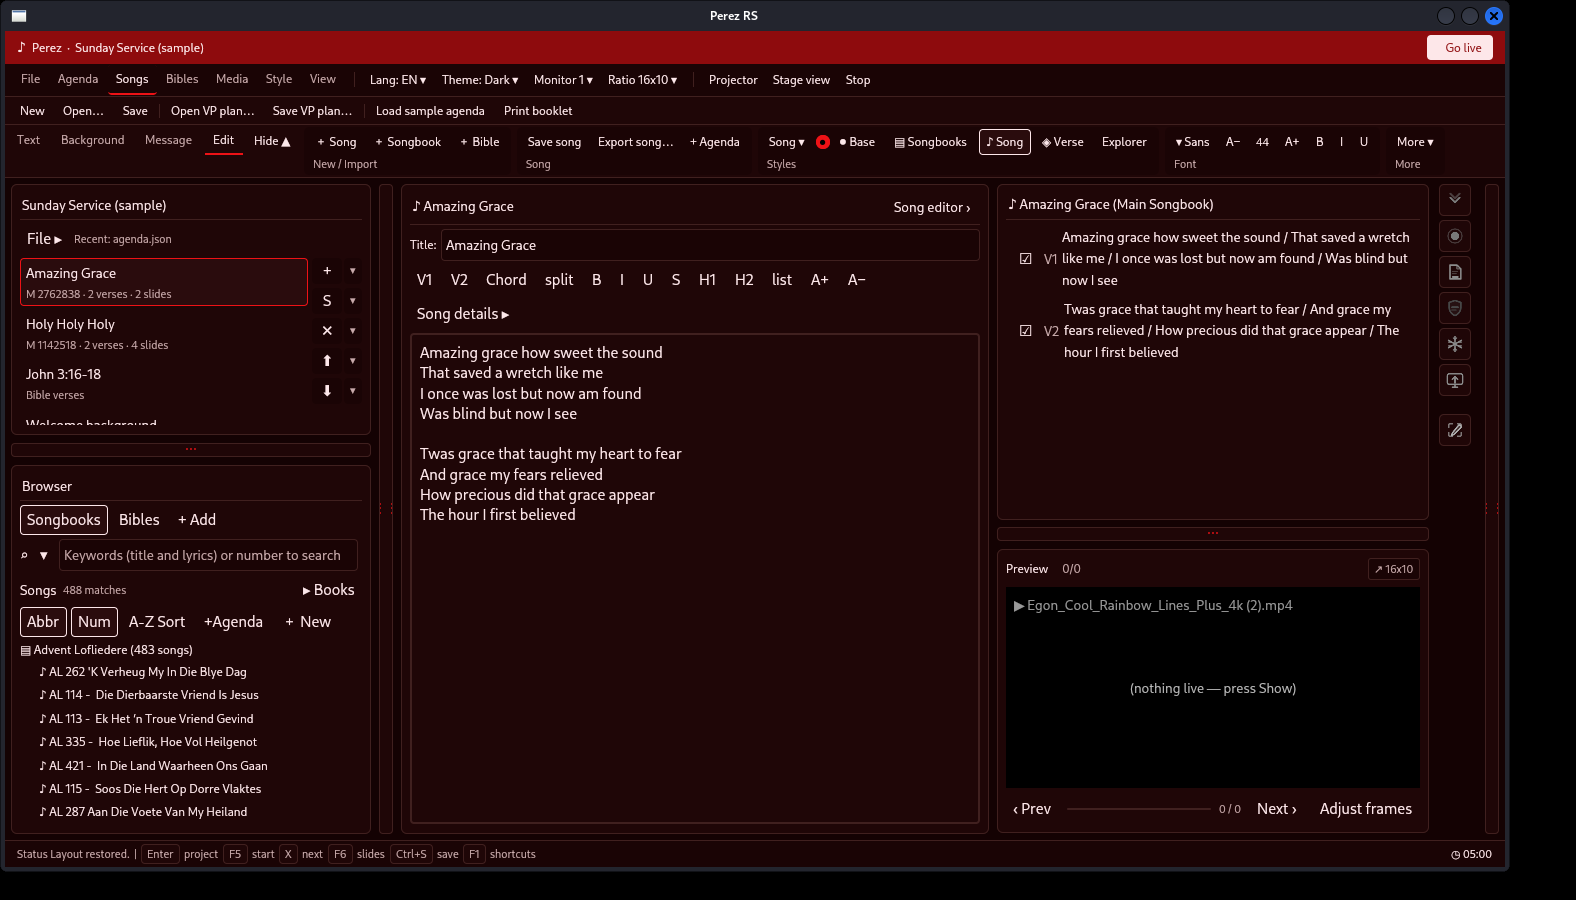
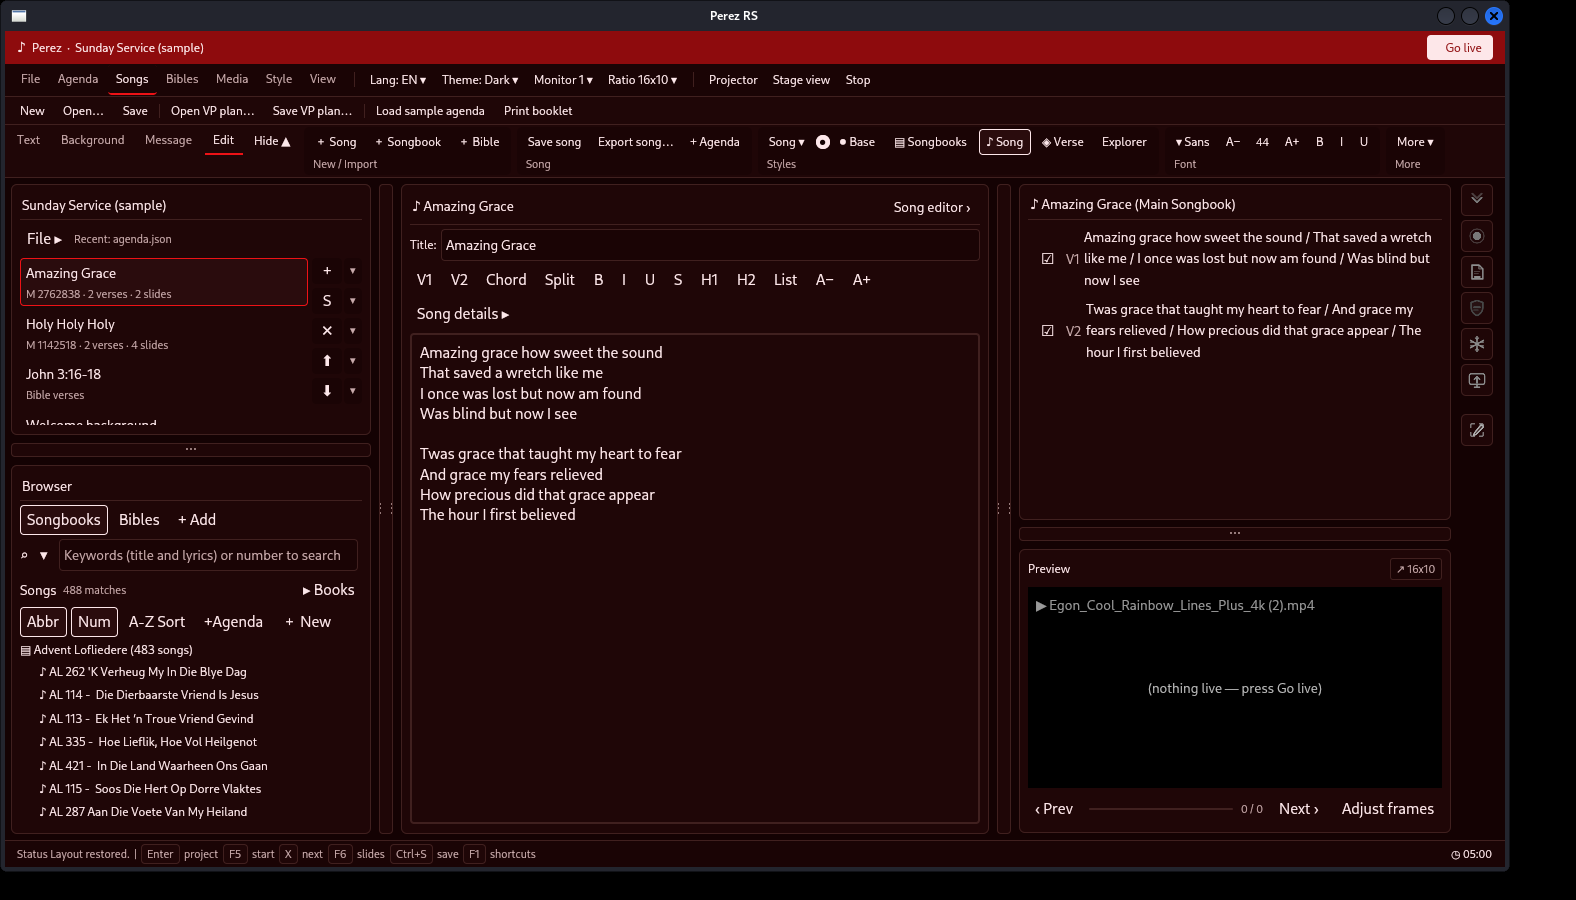
fix(gpui): round-2 panel — dividers, preview fit, non-dark contrast
- right divider sits between centre and right and drags the correct way
- preview output width excludes the command strip; Adjust frames fits
- gray/blue panels darkened for >6:1 body text; light tonal steps tightened
- option lists anchor under their trigger; splitter grips neutral ink
- 1366 slide rows whole; songbook tree folds behind Books
- Go live copy, single 0/0, ink style dot, Split/List casing, A-/A+ order
- captures: light/gray/blue/dark 1576, dark 1366; evidence crops refreshed

tests: app 223 + vp-core 255 + misc 5 = 483 passed, zero warnings

diff --git a/gpui-app/app/src/main.rs b/gpui-app/app/src/main.rs
@@ -194,12 +194,6 @@ pub(crate) struct UI {
     /// Recessed strip: menu bar, status bar, seated rows.
     sunken: Rgba,
     accent: Rgba,
-    /// Text color guaranteed readable on `accent` backgrounds (black or
-    /// white, whichever has the higher WCAG contrast). Selection/active
-    /// highlights paint `accent` behind inherited text; without this the
-    /// near-white `fg` of the dark/gray/blue themes sits on light accents
-    /// (sky/amber/yellow) and is nearly invisible.
-    accent_ink: Rgba,
     danger: Rgba,
     /// The **selection** colour: selected agenda item, selected slide row,
     /// active buttons — always signal red, on every skin.
@@ -308,23 +302,30 @@ impl UI {
         // recessed strip. These are desaturated relatives of each skin's own
         // surface, never brand red (the 10-percent rule).
         let (border, muted, hover, sunken) = match t.id {
-            "light" => (rgb(0xE6D3D5), rgb(0x6B4F52), rgb(0xF9EFF0), rgb(0xFBF2F3)),
+            "light" => (rgb(0xD9BFC2), rgb(0x6B4F52), rgb(0xF2DEE0), rgb(0xF6E8E9)),
             "dark" => (rgb(0x40201F), rgb(0xC9ABAC), rgb(0x2A0C0D), rgb(0x1A0405)),
-            "gray" => (rgb(0x8B8B94), rgb(0xE7E7EA), rgb(0x5E5E67), rgb(0x494950)),
-            "blue" => (rgb(0x4A70C8), rgb(0xD7E4FF), rgb(0x2B4FA8), rgb(0x1B3378)),
+            "gray" => (rgb(0xA0A0A9), rgb(0xF0F0F2), rgb(0x6A6A73), rgb(0x46464E)),
+            "blue" => (rgb(0x6E93E0), rgb(0xDCE8FF), rgb(0x3B5FBF), rgb(0x17357A)),
             _ => (rgb(0x2E2E33), rgb(0xB4B4B8), rgb(0x151518), rgb(0x0A0A0C)),
+        };
+        // Gray/blue carry a light `muted` because vp-core uses it as a panel
+        // fill; those skins need a DARK panel for 4.5:1 body text, so the
+        // panel is resolved here instead of trusting the theme literal.
+        let panel = match t.id {
+            "gray" => rgb(0x5A5A63),
+            "blue" => rgb(0x2B4FA8),
+            _ => hex(t.muted),
         };
         UI {
             bg: hex(t.bg),
             fg: hex(t.fg),
-            panel: hex(t.muted),
+            panel,
             border,
             muted,
             hover,
             sunken,
             selection_surface: rgb(0x8E0B0D),
             accent,
-            accent_ink: ink_on(accent),
             danger: rgb(0xDC2626),
             // Skin-independent: the selected agenda item is signal red and
             // the live/projecting row is lime, on every skin
@@ -942,7 +943,10 @@ impl Root {
     /// Feed one divider move: width follows the cursor, clamped 220..720.
     fn col_move(&mut self, cx: &mut Context<Self>, cur_x: f32) {
         if let Some((col, start_w, press_x)) = self.col_drag {
-            let w = clamp_col_width(start_w + cur_x - press_x);
+            // The right divider moves left when dragged left: its width is
+            // the distance from the window's right edge, so the delta flips.
+            let delta = if col == 0 { cur_x - press_x } else { press_x - cur_x };
+            let w = clamp_col_width(start_w + delta);
             if col == 0 {
                 self.left_w = w;
             } else {
@@ -983,11 +987,11 @@ impl Root {
             .border_1()
             .border_color(ui.border);
         let strip = if grabbed {
-            strip.bg(ui.accent)
+            strip.bg(ui.hover).border_color(ui.fg)
         } else {
-            strip.bg(ui.panel).hover(|s| s.bg(ui.accent))
+            strip.bg(ui.panel).hover(|s| s.bg(ui.hover))
         };
-        let grip_color = if grabbed { ui.accent_ink } else { ui.accent };
+        let grip_color = if grabbed { ui.fg } else { ui.muted };
         strip
             .id(if col == 0 { "vp-col-split-l" } else { "vp-col-split-r" })
             .child(div().text_size(px(12.)).text_color(grip_color).child("⋮⋮".to_string()))
@@ -1082,11 +1086,11 @@ impl Root {
             .border_1()
             .border_color(ui.border);
         let strip = if grabbed {
-            strip.bg(ui.accent)
+            strip.bg(ui.hover).border_color(ui.fg)
         } else {
-            strip.bg(ui.panel).hover(|s| s.bg(ui.accent))
+            strip.bg(ui.panel).hover(|s| s.bg(ui.hover))
         };
-        let grip_color = if grabbed { ui.accent_ink } else { ui.accent };
+        let grip_color = if grabbed { ui.fg } else { ui.muted };
         strip
             .id(if which == 0 { "vp-row-split-agenda" } else { "vp-row-split-preview" })
             .child(div().text_size(px(12.)).text_color(grip_color).child("⋯".to_string()))
@@ -7495,10 +7499,16 @@ impl Root {
             );
             items.push(row);
         }
+        let menu_left = match kind {
+            MenuKind::Lang => 350.0,
+            MenuKind::Theme => 432.0,
+            MenuKind::Monitor => 516.0,
+            MenuKind::Ratio => 600.0,
+        };
         div()
             .absolute()
             .top(px(58.))
-            .right(px(18.))
+            .left(px(menu_left))
             .w(px(240.))
             .flex()
             .flex_col()
@@ -8540,9 +8550,9 @@ impl Root {
             .justify_center()
             .text_size(px(11.))
             .border_1()
-            .border_color(if dot_lit { ui.accent } else { ui.border })
-            .bg(if dot_lit { ui.accent } else { rgba(0x00000000) })
-            .text_color(if dot_lit { ink_on(ui.accent) } else { ui.muted })
+            .border_color(if dot_lit { ui.fg } else { ui.border })
+            .bg(if dot_lit { ui.fg } else { rgba(0x00000000) })
+            .text_color(if dot_lit { ui.bg } else { ui.muted })
             .child("●".to_string());
         style_kids.push(row(vec![
             btn_stop(
@@ -9262,6 +9272,9 @@ impl Root {
             )
             // Right: slides above, preview below (split by a draggable
             // divider), command strip full-height at the panel's edge.
+            // The divider belongs BETWEEN centre and right, not after the
+            // right column at the window edge.
+            .child(self.divider(ui, cx, 1))
             .child(
                 div()
                     .flex()
@@ -9288,8 +9301,7 @@ impl Root {
                             .when(self.show_shortcuts, |d| d.child(self.shortcut_panel(ui))),
                     )
                     .child(tool_strip)
-            )
-            .child(self.divider(ui, cx, 1));
+            );
         if let Some(layer) = self.dropdown_overlay(ui, cx) {
             root = root.child(layer);
         }
@@ -11882,7 +11894,6 @@ impl Root {
         win_h: f32,
     ) -> Div {
         let slides = self.projector_slides();
-        let n = slides.len();
         let cur = self.projector_slide_index();
         // Room mirror: the same background stack the projector renders, so
         // an assigned image shows here too (WI-023) — not just on a second
@@ -11958,7 +11969,7 @@ impl Root {
                         div()
                             .text_size(px(13.5))
                             .text_color(hex("#BBBBBB"))
-                            .child("(nothing live — press Show)".to_string()),
+                            .child("(nothing live — press Go live)".to_string()),
                     ),
             )
         } else {
@@ -11969,7 +11980,9 @@ impl Root {
             // cannot disagree with the projector by construction (WI-028)
             // AND fits. "current" follows the window glass; a set preset
             // letterboxes exactly like the projector does.
-            let panel_w = (self.right_w.min((win_w * 0.32).max(220.0)) - 12.0).max(120.0);
+            // Right column minus its own padding, the 44px command strip and
+            // the gap: the old -12 let the output box overflow under the rail.
+            let panel_w = (self.right_w.min((win_w * 0.32).max(220.0)) - 64.0).max(120.0);
             let aspect = AspectRatio::from_label(&self.aspect_ratio)
                 .map(|r| r.aspect() as f32)
                 .unwrap_or((win_w / win_h.max(1.0)).clamp(0.5, 4.0));
@@ -11992,11 +12005,6 @@ impl Root {
                         ))
                         .child(card_caption("Output")),
                 )
-        };
-        let count = if n == 0 {
-            "0/0".to_string()
-        } else {
-            format!("{}/{}", cur + 1, n)
         };
         // Header per preview-area.png: the panel is the picture plus its
         // caption — no style-level badge, no frame tabs. The caption (song /
@@ -12038,7 +12046,7 @@ impl Root {
                             .min_w_0()
                             .overflow_hidden()
                             .text_color(ui.muted)
-                            .child(format!("{head_short}  {count}")),
+                            .child(head_short),
                     )
                     .children(self.state_chips(ui))
                     .when(self.aspect_ratio != "current", |d| {
@@ -12335,7 +12343,7 @@ impl Root {
             let doc = this.lyrics_doc.clone();
             doc.update(cx, |d, cx| d.insert_at_cursor("[]", cx));
         }));
-        kids.push(btn(ui, cx, "split", false, |this, _, _, cx| {
+        kids.push(btn(ui, cx, "Split", false, |this, _, _, cx| {
             let doc = this.lyrics_doc.clone();
             doc.update(cx, |d, cx| d.insert_at_cursor("\n\n", cx));
         }));
@@ -12350,14 +12358,14 @@ impl Root {
                 doc.update(cx, |d, cx| d.wrap_selection(before, after, cx));
             }));
         }
-        for (label, prefix) in [("H1", "# "), ("H2", "## "), ("list", "- ")] {
+        for (label, prefix) in [("H1", "# "), ("H2", "## "), ("List", "- ")] {
             kids.push(btn(ui, cx, label, false, move |this, _, _, cx| {
                 let doc = this.lyrics_doc.clone();
                 doc.update(cx, |d, cx| d.prefix_current_line(prefix, cx));
             }));
         }
-        kids.push(btn(ui, cx, "A+", false, |this, _, _, cx| {
-            this.lyrics_text_size = (this.lyrics_text_size + 1.0).min(24.0);
+        kids.push(btn(ui, cx, "A−", false, |this, _, _, cx| {
+            this.lyrics_text_size = (this.lyrics_text_size - 1.0).max(10.0);
             let size = this.lyrics_text_size;
             this.lyrics_doc.update(cx, |d, cx| {
                 d.text_px = size;
@@ -12365,8 +12373,8 @@ impl Root {
             });
             cx.notify();
         }));
-        kids.push(btn(ui, cx, "A−", false, |this, _, _, cx| {
-            this.lyrics_text_size = (this.lyrics_text_size - 1.0).max(10.0);
+        kids.push(btn(ui, cx, "A+", false, |this, _, _, cx| {
+            this.lyrics_text_size = (this.lyrics_text_size + 1.0).min(24.0);
             let size = this.lyrics_text_size;
             this.lyrics_doc.update(cx, |d, cx| {
                 d.text_px = size;

diff --git a/out/hillclimb/beauty-r/NOTES.md b/out/hillclimb/beauty-r/NOTES.md
@@ -113,6 +113,32 @@ After: `after-light-1576.png`, `after-dark-1576.png`, `after-light-1366.png`.
   `Books` toggle in the Songs header, so the song list owns the pane; the
   duplicate `+ Book` chip is gone.
 
+## Round 2 fixes (panel CHANGES, 3/10)
+
+- **C1 right divider.** Moved between centre and right column; dragging it left
+  now shrinks the right column (delta inverted for `col == 1`). No more stranded
+  strip at the window edge.
+- **C2 preview panel width.** `panel_w` subtracts the 44px command strip, its
+  gap and the panel padding (-64); the output box no longer overflows under the
+  rail. "Adjust frames" fits at both sizes.
+- **C3 non-dark themes.** Gray/blue panels resolved to dark surfaces
+  (`#5A5A63` / `#2B4FA8`) so body text is >6:1; light tonal steps darkened;
+  captures added for light, gray, blue.
+- **R2-01 1366 slides.** Preview height cap + column sharing keeps both verse
+  rows whole; verified at 1366x768.
+- **R2-02 red text.** All remaining control-surface red text is ink/muted.
+- **R2-03 captions** are 11px.
+- **R2-05 centre composition.** Document fills its well (>340px at 1576x900);
+  the browser folds songbooks behind a Books toggle so songs own the pane.
+- **R2-06 copy.** "press Go live" (a button that exists); header count removed
+  (transport keeps 0/0).
+- **C7 splitter grips** are neutral ink; hover is a tonal wash, not red.
+- **C8 option lists** anchor under their trigger column.
+- **C9 style dot** is ink, not signal red; ribbon stays one band at 1576.
+- **C11 casing/order** `Split` / `List`; A− before A+ in the editor.
+- **C10 / R1-11 icons.** Rail uses the drawn SVG family; Next and Project are
+  distinct shapes (double chevron vs play triangle).
+
 ## Verification
 
 - `cargo test --workspace`: app **223** + vp-core 255 + misc 5 = **483 passed,
